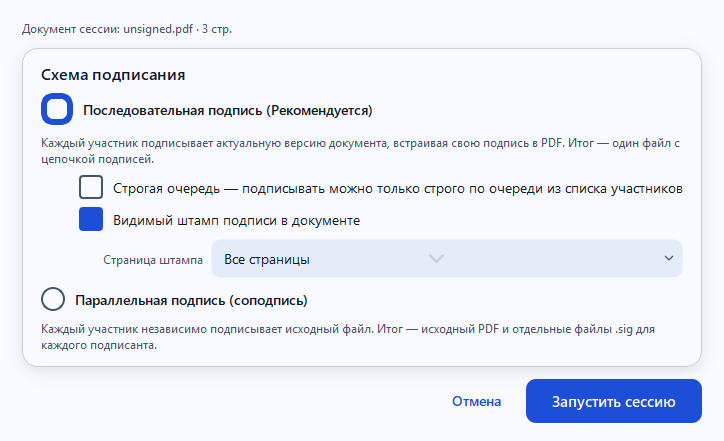
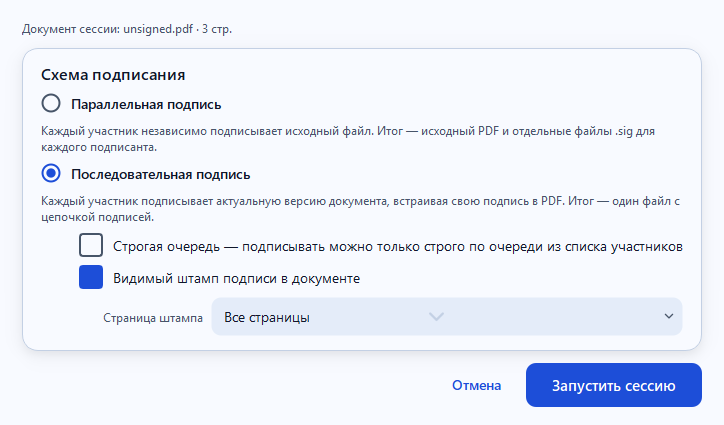
Схемы подписания: параллельная выше последовательной, без пометок в скобках
- порядок: «Параллельная подпись», затем «Последовательная подпись»
- убраны «(Рекомендуется)» и «(соподпись)»
- ресурсы UI (радиокнопки, стрелки) упаковываются в exe целиком:
  раньше в сборку попадал только pdf-multisign.png, из-за чего индикаторы
  в установленной версии были невидимы
- theme: CSS-fallback круглых радиокнопок, если PNG не найден
- перерисованы скриншоты, суммы в заметках обновлены

diff --git a/pdfsign/theme.py b/pdfsign/theme.py
@@ -24,6 +24,11 @@ def _asset(name: str) -> str:
 
 ARROW_DOWN = _asset("chevron-down.png")
 ARROW_DOWN_DISABLED = _asset("chevron-down-disabled.png")
+RADIO_OFF = _asset("radio-off.png")
+RADIO_OFF_HOVER = _asset("radio-off-hover.png")
+RADIO_ON = _asset("radio-on.png")
+RADIO_OFF_DISABLED = _asset("radio-off-disabled.png")
+RADIO_ON_DISABLED = _asset("radio-on-disabled.png")
 
 PRIMARY = "#1D4ED8"
 ON_PRIMARY = "#FFFFFF"
@@ -41,6 +46,50 @@ OUTLINE = "#64748B"
 OUTLINE_VARIANT = "#C3D0E4"
 ERROR = "#B3261E"
 SUCCESS = "#146C2E"
+
+
+def _radio_rules() -> str:
+    """Round radio indicators drawn from PNG assets, with a CSS-only fallback.
+
+    If the asset cannot be resolved (broken bundle, unusual install layout) the
+    stylesheet falls back to a border-based circle so the indicator is never
+    invisible.
+    """
+    if RADIO_OFF and RADIO_ON:
+        disabled_off = RADIO_OFF_DISABLED or RADIO_OFF
+        disabled_on = RADIO_ON_DISABLED or RADIO_ON
+        hover = RADIO_OFF_HOVER or RADIO_OFF
+        return f"""
+    QRadioButton {{ spacing: 10px; font-weight: 600; }}
+    QRadioButton::indicator {{
+        width: 20px; height: 20px;
+        border: none;
+        background: transparent;
+        image: url("{RADIO_OFF}");
+    }}
+    QRadioButton::indicator:hover {{ image: url("{hover}"); }}
+    QRadioButton::indicator:checked {{ image: url("{RADIO_ON}"); }}
+    QRadioButton:disabled {{ color: {OUTLINE}; }}
+    QRadioButton::indicator:disabled {{ image: url("{disabled_off}"); }}
+    QRadioButton::indicator:checked:disabled {{ image: url("{disabled_on}"); }}
+    """
+    return f"""
+    QRadioButton {{ spacing: 10px; font-weight: 600; }}
+    QRadioButton::indicator {{
+        width: 18px; height: 18px;
+        border: 2px solid {ON_SURFACE_VARIANT};
+        border-radius: 11px;
+        background: transparent;
+    }}
+    QRadioButton::indicator:hover {{ border-color: {PRIMARY}; }}
+    QRadioButton::indicator:checked {{
+        border: 6px solid {PRIMARY};
+        background: {SURFACE};
+    }}
+    QRadioButton:disabled {{ color: {OUTLINE}; }}
+    QRadioButton::indicator:disabled {{ border-color: {OUTLINE_VARIANT}; }}
+    QRadioButton::indicator:checked:disabled {{ border: 6px solid {OUTLINE_VARIANT}; }}
+    """
 
 
 def stylesheet() -> str:
@@ -198,22 +247,7 @@ def stylesheet() -> str:
     QCheckBox:disabled {{ color: {OUTLINE}; }}
     QCheckBox::indicator:disabled {{ border-color: {OUTLINE_VARIANT}; }}
 
-    QRadioButton {{ spacing: 10px; font-weight: 600; }}
-    QRadioButton::indicator {{
-        width: 20px; height: 20px;
-        border: 2px solid {ON_SURFACE_VARIANT};
-        border-radius: 12px;
-        background: transparent;
-    }}
-    QRadioButton::indicator:hover {{ border-color: {PRIMARY}; }}
-    QRadioButton::indicator:checked {{
-        border: 6px solid {PRIMARY};
-        background: {SURFACE};
-    }}
-    QRadioButton:disabled {{ color: {OUTLINE}; }}
-    QRadioButton::indicator:disabled {{ border-color: {OUTLINE_VARIANT}; }}
-    QRadioButton::indicator:checked:disabled {{ border: 6px solid {OUTLINE_VARIANT}; }}
-
+    {_radio_rules()}
     QProgressBar {{
         background: {SURFACE_VARIANT};
         border: none;

diff --git a/packaging/make_radio.py b/packaging/make_radio.py
@@ -1,0 +1,68 @@
+"""Generate round radio-button indicators (off/on/hover/disabled) for the theme."""
+from __future__ import annotations
+
+import sys
+from pathlib import Path
+
+ROOT = Path(__file__).resolve().parent.parent
+sys.path.insert(0, str(ROOT))
+sys.path.insert(0, str(ROOT / "vendor"))
+sys.path.insert(0, str(ROOT / "vendor" / "win32"))
+sys.path.insert(0, str(ROOT / "vendor" / "win32" / "lib"))
+
+from PySide6.QtCore import QPointF, Qt  # noqa: E402
+from PySide6.QtGui import QColor, QGuiApplication, QImage, QPainter  # noqa: E402
+
+SIZE = 40            # rendered pixels (displayed at 20 px)
+RING = 4             # ring width in rendered pixels (~2 px on screen)
+PRIMARY = "#1D4ED8"
+NEUTRAL = "#475569"
+DISABLED = "#C3D0E4"
+
+
+def indicator(ring_color: str, dot: bool) -> QImage:
+    image = QImage(SIZE, SIZE, QImage.Format.Format_ARGB32)
+    image.fill(Qt.GlobalColor.transparent)
+    painter = QPainter(image)
+    painter.setRenderHint(QPainter.RenderHint.Antialiasing, True)
+    painter.setPen(Qt.PenStyle.NoPen)
+
+    # outer ring as a filled circle with a transparent hole, so the inner dot
+    # is painted *inside* the ring instead of thickening the border
+    painter.setBrush(QColor(ring_color))
+    painter.drawEllipse(QPointF(SIZE / 2, SIZE / 2), SIZE / 2 - 1, SIZE / 2 - 1)
+    painter.setCompositionMode(QPainter.CompositionMode.CompositionMode_Clear)
+    painter.drawEllipse(
+        QPointF(SIZE / 2, SIZE / 2), SIZE / 2 - 1 - RING, SIZE / 2 - 1 - RING
+    )
+    painter.setCompositionMode(QPainter.CompositionMode.CompositionMode_SourceOver)
+
+    if dot:
+        inner = (SIZE / 2 - 1 - RING) * 0.62
+        painter.setBrush(QColor(ring_color))
+        painter.drawEllipse(QPointF(SIZE / 2, SIZE / 2), inner, inner)
+
+    painter.end()
+    return image
+
+
+def main() -> int:
+    QGuiApplication([sys.argv[0]])
+    out = ROOT / "resources"
+    out.mkdir(exist_ok=True)
+    variants = {
+        "radio-off.png": (NEUTRAL, False),
+        "radio-off-hover.png": (PRIMARY, False),
+        "radio-on.png": (PRIMARY, True),
+        "radio-off-disabled.png": (DISABLED, False),
+        "radio-on-disabled.png": (DISABLED, True),
+    }
+    for name, (color, dot) in variants.items():
+        path = out / name
+        indicator(color, dot).save(str(path), "PNG")
+        print("written", path)
+    return 0
+
+
+if __name__ == "__main__":
+    raise SystemExit(main())

diff --git a/pdfsign/network_ui.py b/pdfsign/network_ui.py
@@ -197,7 +197,17 @@ class HostSetupDialog(QDialog):
         card, card_layout = _card("Схема подписания")
         _shadow(card)
 
-        self._sequential = QRadioButton("Последовательная подпись (Рекомендуется)")
+        self._parallel = QRadioButton("Параллельная подпись")
+        card_layout.addWidget(self._parallel)
+        par_hint = QLabel(
+            "Каждый участник независимо подписывает исходный файл. Итог — "
+            "исходный PDF и отдельные файлы .sig для каждого подписанта."
+        )
+        par_hint.setObjectName("Caption")
+        par_hint.setWordWrap(True)
+        card_layout.addWidget(par_hint)
+
+        self._sequential = QRadioButton("Последовательная подпись")
         self._sequential.setChecked(True)
         card_layout.addWidget(self._sequential)
         seq_hint = QLabel(
@@ -233,16 +243,6 @@ class HostSetupDialog(QDialog):
         page_row.addWidget(self._page_combo, 1)
         sub_layout.addLayout(page_row)
         card_layout.addWidget(sub)
-
-        self._parallel = QRadioButton("Параллельная подпись (соподпись)")
-        card_layout.addWidget(self._parallel)
-        par_hint = QLabel(
-            "Каждый участник независимо подписывает исходный файл. Итог — "
-            "исходный PDF и отдельные файлы .sig для каждого подписанта."
-        )
-        par_hint.setObjectName("Caption")
-        par_hint.setWordWrap(True)
-        card_layout.addWidget(par_hint)
 
         layout.addWidget(card)
 

diff --git a/packaging/release-notes-1.1.0.md b/packaging/release-notes-1.1.0.md
@@ -14,8 +14,8 @@ PDF Мультиподпись 1.1.0 — подпись PDF нескольким
 - Кнопка «Скопировать приглашение» — адрес, код и инструкция одним сообщением.
 - Загрузка PDF **кликом по рамке** переноса файла (не только перетаскиванием и кнопкой).
 - Диалог «О программе» без версии ОС.
-- Окно параметров сессии: схема подписания в виде структуры «Последовательная подпись (Рекомендуется)» с вложенными «Строгая очередь» и «Видимый штамп подписи в документе», затем «Параллельная подпись (соподпись)».
-- Интерфейс: радиокнопки с видимой отметкой в нажатом состоянии, у выпадающих списков появилась стрелка вниз, неактивный список явно различим (пунктирная рамка, блёклая стрелка).
+- Окно параметров сессии: сначала «Параллельная подпись», затем «Последовательная подпись» с вложенными «Строгая очередь» и «Видимый штамп подписи в документе».
+- Интерфейс: радиокнопки — круглые индикаторы с заливкой внутри в выбранном состоянии (в том числе в собранной версии), у выпадающих списков появилась стрелка вниз, неактивный список явно различим (пунктирная рамка, блёклая стрелка).
 - В списке «Страница штампа» добавлен пункт «Все страницы» — штамп ставится на каждую страницу документа.
 
 Подпись остаётся корректной по `/ByteRange`: в последовательной схеме участник
@@ -48,9 +48,9 @@ prepare/commit), закрытый ключ не покидает его комп
 ## Контрольные суммы
 
 ```
-SHA256  PDF-Multisign-1.1.0-win64.msi       3c6d8461204b4c41b632ef66ad01bea49dd95d799062956afa226cb625173017
-SHA256  PDF-Multisign.exe                   aec2288a1b59264df70e00708320e6403472b92775b715ccb107d54b82062e72
-SHA256  pdf-multisign_1.1.0_amd64.deb       2f436ae7c4037675a96f939b63d8d608e4969dae14ea13d7d9b935cea6033fae
+SHA256  PDF-Multisign-1.1.0-win64.msi       bf54607504f6e64edb9e813b9114c1afc03f69cf0ea61e51493e8699cf77bdc7
+SHA256  PDF-Multisign.exe                   eac995972b5e5f26379db240986b9f34917010e2359af357fee9d4df906ad2f0
+SHA256  pdf-multisign_1.1.0_amd64.deb       d54ca1bf30e815ecabef04bb57c1395e5c5377e0f864457779d89c691d6c3a5d
 ```
 
 Лицензия кода — MIT. Исходники и описание: https://github.com/Tripswarlock/pdf-multisign
